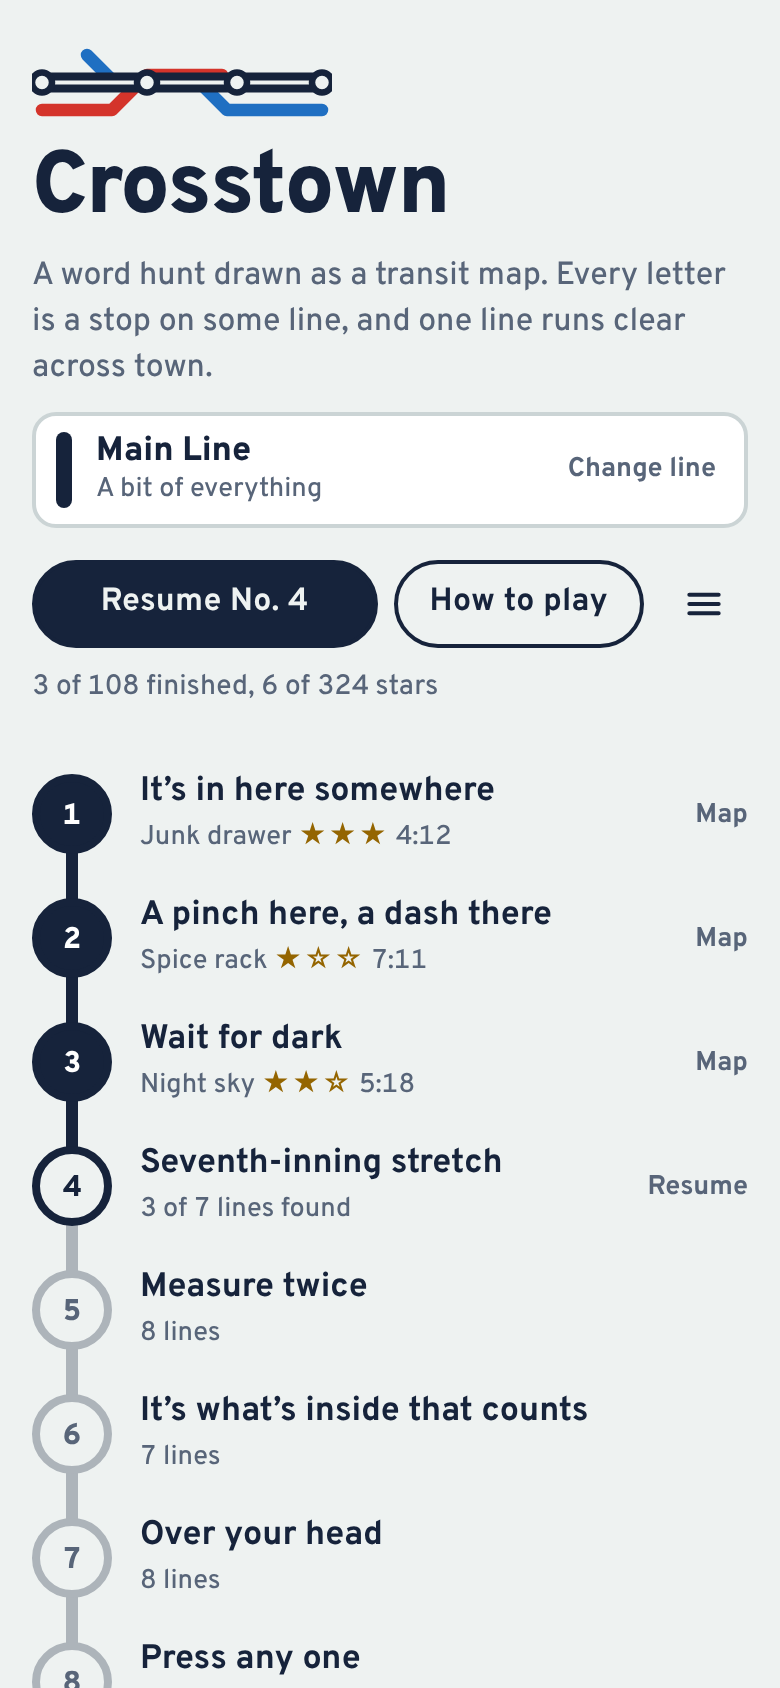
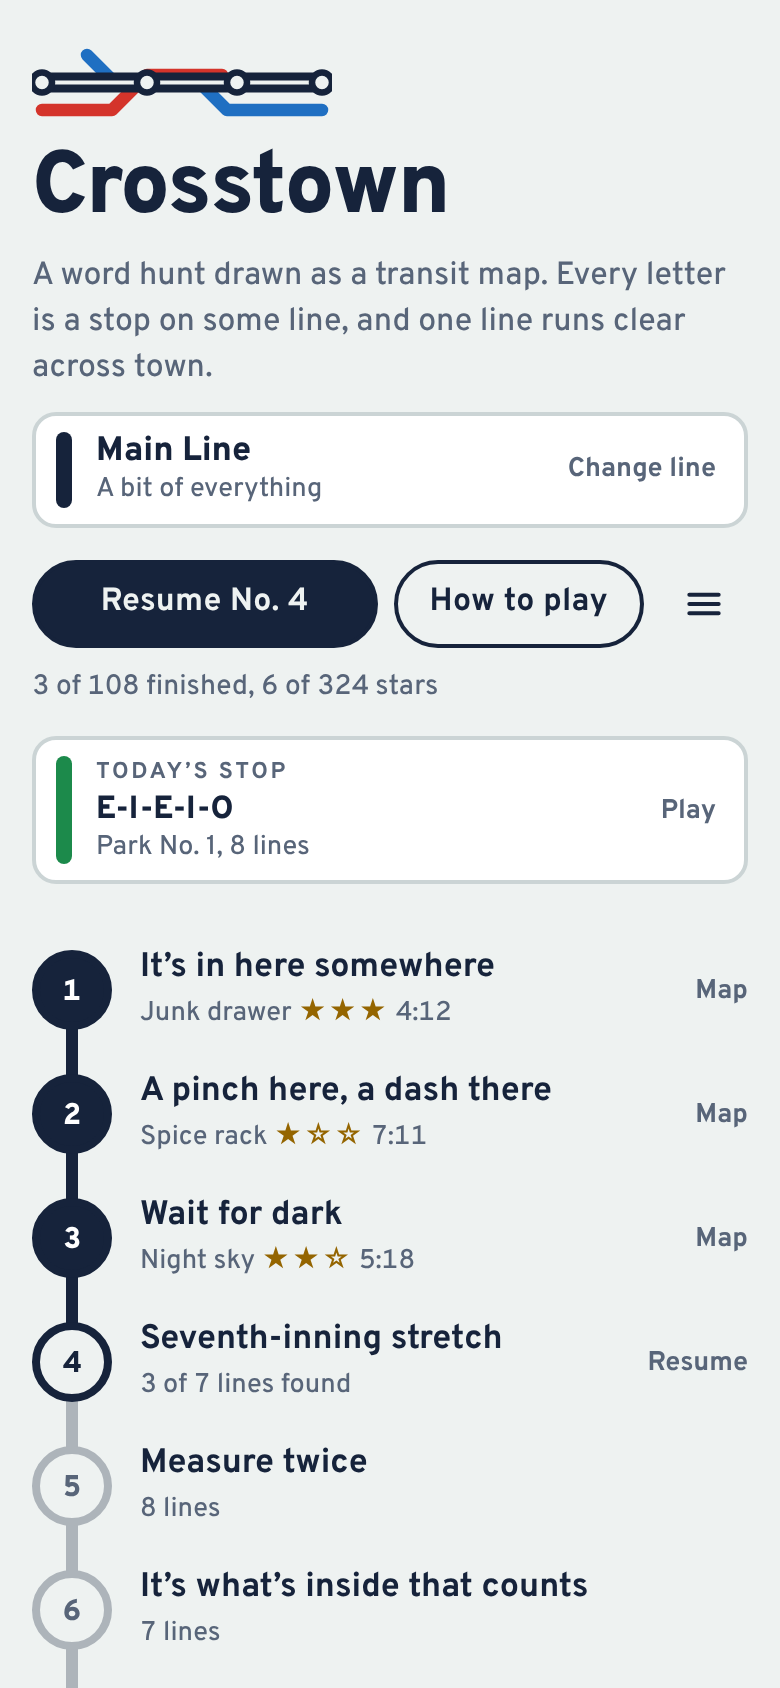
Add Today's stop at the top of the list
Mark asked for a puzzle of the day. Under the buttons at the top of the list, Today's stop now offers one puzzle
a day from any line, in that line's colour, picked from those not yet played (nothing found on it and never
finished). It's picked by the date, so it needs no network: each puzzle gets a number from the day and its id,
and the lowest not yet played is today's. Playing another puzzle doesn't change it, and once today's is opened
it's kept with the options, so it stays all day and shows how far along it is. It follows night service, as the
list does, and a new day brings another; with everything played there's none. The screenshot tool sets it, so
the pictures don't change by the day. Answers "A puzzle of the day, or Surprise me" (the daily half).

Claude-Session: https://claude.ai/code/session_01PQbLNW4ckNMowmqWSWnEc1

diff --git a/js/app.js b/js/app.js
@@ -333,6 +333,7 @@ function drawList() {
   const later = going.filter(i => i > up), short = up < 0 ? shortOf(line) : [];
   if (up >= 0 && later.length) tallyLink(later.length > 1 ? `${later.length} under way, next No. ${later[0] + 1}` : `No. ${later[0] + 1} under way`, later[0]);
   if (short.length) tallyLink(short.length > 1 ? `${short.length} short of three stars, next No. ${short[0] + 1}` : `No. ${short[0] + 1} short of three stars`, short[0]);
+  drawToday();
   route.setAttribute('aria-label', `${line.name} puzzles`);
   route.classList.toggle('finished', finished === list.length);
   $('line-name').textContent = line.name;
@@ -353,6 +354,53 @@ $('b-pill-up').addEventListener('click', () => {
   $('s-list').querySelector('.list-scroll').scrollTo({ top: 0, behavior: smooth ? 'smooth' : 'auto' });
   $('b-continue').focus({ preventScroll: true });
 });
+
+// Today's stop: one puzzle a day, from any line, of those not yet played (nothing found on it and never finished). It's
+// picked by the date, so it needs nothing from anywhere and is the same all day: each puzzle gets a number from the day
+// and its id, and the lowest of those not yet played is today's. Playing another puzzle doesn't change it, and once
+// today's is opened it's kept with the options, so it stays today's once it's played. With every puzzle played, there's
+// none.
+const dayOf = (d = new Date()) => [d.getFullYear(), d.getMonth() + 1, d.getDate()].map(n => String(n).padStart(2, '0')).join('-');
+const unplayed = id => !isFinished(id) && !started(gameFor(id));
+const scramble = text => { let h = 0x811c9dc5; for (let k = 0; k < text.length; k++) h = Math.imul(h ^ text.charCodeAt(k), 0x01000193); return h >>> 0; };
+function todays(day = dayOf()) {
+  const t = saved.options.today;
+  if (isObject(t) && t.day === day && byId.has(t.id)) return byId.get(t.id);
+  let pick = null, low = Infinity;
+  for (const p of PUZZLES) if (unplayed(p.id)) { const n = scramble(`${day} ${p.id}`); if (n < low) { low = n; pick = p; } }
+  return pick;
+}
+const keepToday = p => { const day = dayOf(); if (saved.options.today?.day !== day && todays(day) === p) setOption('today', { day, id: p.id }); };
+let todayDrawn = '';
+function drawToday() {
+  todayDrawn = dayOf();
+  const p = todays(todayDrawn), el = $('today');
+  el.hidden = !p;
+  if (!p) return;
+  const l = lineOf(p.line), i = l.puzzles.indexOf(p), g = gameFor(p.id), best = bestStars(p.id);
+  const state = g?.done ? 'done' : started(g) ? 'going' : best ? 'done' : 'todo';
+  el.style.setProperty('--row-line', tint(l)[0]);
+  // Night service keeps its clue off too, as on the list.
+  const dark = saved.options.night && state !== 'done' && !g?.found.length;
+  $('today-clue').textContent = dark ? 'Night service' : p.clue;
+  $('today-clue').classList.toggle('dark-hours', dark);
+  const sub = $('today-sub'), st = document.createElement('span');
+  st.className = 'st'; st.textContent = '★'.repeat(best) + '☆'.repeat(3 - best);
+  sub.textContent = `${shortName(l)} No. ${i + 1}, `;
+  if (state === 'done') sub.append(st); else sub.append(state === 'going' ? `${g.found.length} of ${p.lines.length} lines found` : `${p.lines.length} lines`);
+  $('today-go').textContent = state === 'going' ? 'Resume' : state === 'done' ? (g?.done ? 'Map' : 'Replay') : 'Play';
+  const said = state === 'done' ? `${best} of 3 stars` : state === 'going' ? `${g.found.length} of ${p.lines.length} lines found` : `${p.lines.length} lines`;
+  el.setAttribute('aria-label', `Today’s stop: ${l.name}, No. ${i + 1}. ${dark ? 'Night service' : p.clue}. ${said}`);
+}
+$('today').addEventListener('click', () => {
+  const p = todays(todayDrawn) || todays();
+  if (!p) return;
+  const l = lineOf(p.line);
+  if (l !== line) showLine(l);
+  fromList(l.puzzles.indexOf(p));
+});
+// Back on screen on a new day, the list shows the new day's.
+document.addEventListener('visibilitychange', () => { if (!document.hidden && !cur && todayDrawn && todayDrawn !== dayOf()) drawList(); });
 
 // The lines sheet: every line with how far along it you are, starting on the one on show. Picking one shows its list
 // from the top. The list is drawn before the sheet closes, so focus goes back to a button that names the new line.
@@ -558,6 +606,7 @@ function openPuzzle(i) {
   // The control that opened it (a row, Continue, Next puzzle) is on a screen that's gone, so the focus goes to the map:
   // a keyboard can play straight away, and a screen reader hears where it is. After a tap no ring shows.
   board.focus({ preventScroll: true });
+  keepToday(p);
 }
 
 // Another window has saved something of the puzzle on screen that this one hasn't got (a line, a detour, a token spent,

diff --git a/css/app.css b/css/app.css
@@ -224,6 +224,14 @@ a { color: inherit; }
   #sheet-lines .panel { gap: 10px; padding-top: 18px; }
   .line-row .line-main small:not(.here) { white-space: nowrap; overflow: hidden; text-overflow: ellipsis; }
 }
+/* Today's stop, under the buttons at the top of the list: one puzzle a day from any line, in that line's colour. */
+.today { margin-top: 4px; }
+.today .line-bar { background: var(--row-line); }
+.today .today-label { font-size: 11.5px; font-weight: 700; letter-spacing: .12em; text-transform: uppercase; line-height: 1.5; }
+.today .line-main strong { font-size: 16px; }
+.today strong.dark-hours { font-weight: 600; color: var(--muted); }
+.today .st { color: var(--star); letter-spacing: 1px; }
+.today-go { color: var(--muted); font-size: 13.5px; font-weight: 700; white-space: nowrap; }
 .panel-note { color: var(--muted); font-size: 14px; margin-top: -6px; }
 @media (hover: hover) { .line-pick:hover, .line-row:hover { border-color: var(--muted); } .line-row[aria-current]:hover { border-color: var(--ink); } }
 

diff --git a/index.html b/index.html
@@ -56,6 +56,11 @@
           <p class="tally" id="aside-note" hidden>Your saved progress couldn’t be read, so this list starts fresh. A copy is kept in this browser.</p>
           <p class="tally" id="unkept" hidden>This browser isn’t keeping your progress, so it goes when the page closes.</p>
           <p class="sr-only" id="list-said" aria-live="polite"></p>
+          <button type="button" class="line-pick today" id="today" hidden>
+            <span class="line-bar" aria-hidden="true"></span>
+            <span class="line-main"><small class="today-label">Today’s stop</small><strong id="today-clue"></strong><small id="today-sub"></small></span>
+            <span class="today-go" id="today-go" aria-hidden="true"></span>
+          </button>
         </header>
 
         <ol class="route" id="route"></ol>

diff --git a/sw.js b/sw.js
@@ -9,7 +9,7 @@
 // only when this file changes by a byte, so FILES is a fingerprint of every file in SHELL: change any of them and
 // test/e2e.mjs fails until FILES is changed to match (it says what to), which changes this file. Each release keeps
 // its copy under its own name, so making the next one never touches the one in use, and this worker reads only its own.
-const FILES = 'f7591543'; // test/e2e.mjs checks this
+const FILES = '8c9caa8d'; // test/e2e.mjs checks this
 const CACHE = 'crosstown-' + FILES;
 const SHELL = [
   './', 'index.html', 'icon.svg', 'manifest.webmanifest',

diff --git a/README.md b/README.md
@@ -5,7 +5,7 @@
 **A word hunt drawn as a transit map.** Every letter is a stop, and each theme word you find becomes its own coloured line. One line, the Crosstown, names the theme and runs from one edge of the map to the opposite edge. When you're done, every stop is on a line and the board looks like a subway map.
 
 <p align="center">
-  <img src="docs/phone-list.png" alt="The list of puzzles: a card for the line on show, reading Main Line, Change line, then a route line running down through numbered roundels, three finished with stars and times, the fourth under way" width="250">
+  <img src="docs/phone-list.png" alt="The list of puzzles: a card for the line on show, reading Main Line, Change line, a card for today's stop, a puzzle on the Park Line, then a route line running down through numbered roundels, three finished with stars and times, the fourth under way" width="250">
   &nbsp;
   <img src="docs/phone-play.png" alt="A puzzle midway: the clue on a dark sign, a blue line, an orange line and the striped Crosstown already drawn, a word half traced in grey, and nine stops ringed by a hint" width="250">
   &nbsp;
@@ -19,7 +19,7 @@
 - **The Crosstown.** It names the theme, like ODDSANDENDS, and runs clear across the map, from one edge to the opposite one.
 - **Detours earn fare.** Any other word of four letters or more, apart from a theme word with an ending added or taken off (SPEAR on a map with SPEARS), is a detour. Detours can run through the lines you’ve already found: drag through their stops, or tap on into one beside your last letter. A tap on a found stop on its own names its line. Four letters earn 1 fare, five earn 2, six earn 3, seven or more earn 4, and every 4 fare becomes a token.
 - **A token is a hint.** It rings the stops of a line you haven't found. A second token on the same line draws its route and marks where it starts. Fare and tokens stay with their puzzle.
-- **Seven lines.** The puzzles come in lines you switch between with Change line, at the top of the list: the Main Line (a bit of everything), then the Market Line (food and drink), Park (nature and the outdoors), Workshop (making, fixing, wearing and the home), Theater (arts, play and pastimes), University (science, history, language and the body) and Airport (places, travel and jobs around town). Each line keeps its own numbers and progress, 587 puzzles in all.
+- **Seven lines.** The puzzles come in lines you switch between with Change line, at the top of the list: the Main Line (a bit of everything), then the Market Line (food and drink), Park (nature and the outdoors), Workshop (making, fixing, wearing and the home), Theater (arts, play and pastimes), University (science, history, language and the body) and Airport (places, travel and jobs around town). Each line keeps its own numbers and progress, 587 puzzles in all. Today's stop, at the top of the list, is one puzzle a day from any line, picked from those you haven't played; it's the same all day, and picked by the date, so it works offline.
 - **Three stars.** One for finishing, one for spending no tokens, one for finding the Crosstown before any other line. A puzzle played again keeps its best stars, as it keeps its best time.
 - **Share a result.** It ends with a link to its puzzle by line and number, like `crosstown.junkdrawer.works/#market-47` (not by the puzzle's name, which would give its Crosstown away). The link opens that puzzle, with its line's list behind it for Back; a number the line hasn't got opens the line's list. Links in this form keep working: a puzzle keeps its number, and new puzzles go at the end of their line.
 - **Clock and night service.** Two options: time each puzzle and keep your best, and hide the clue until you find your first line.
